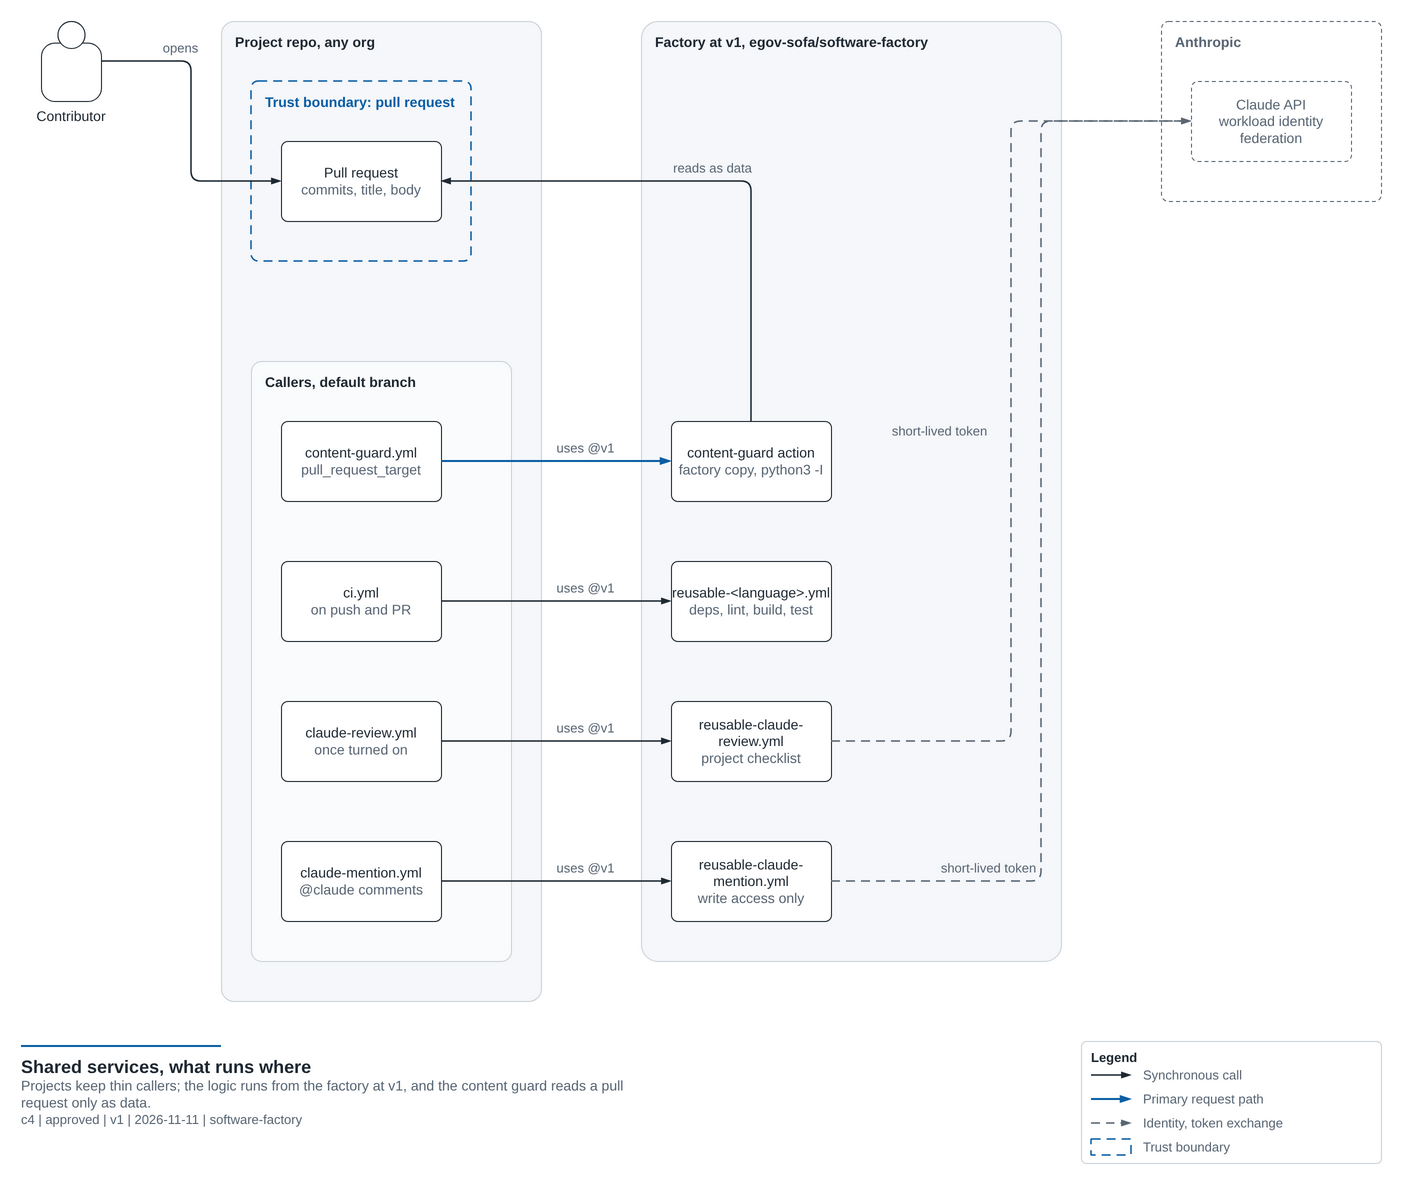
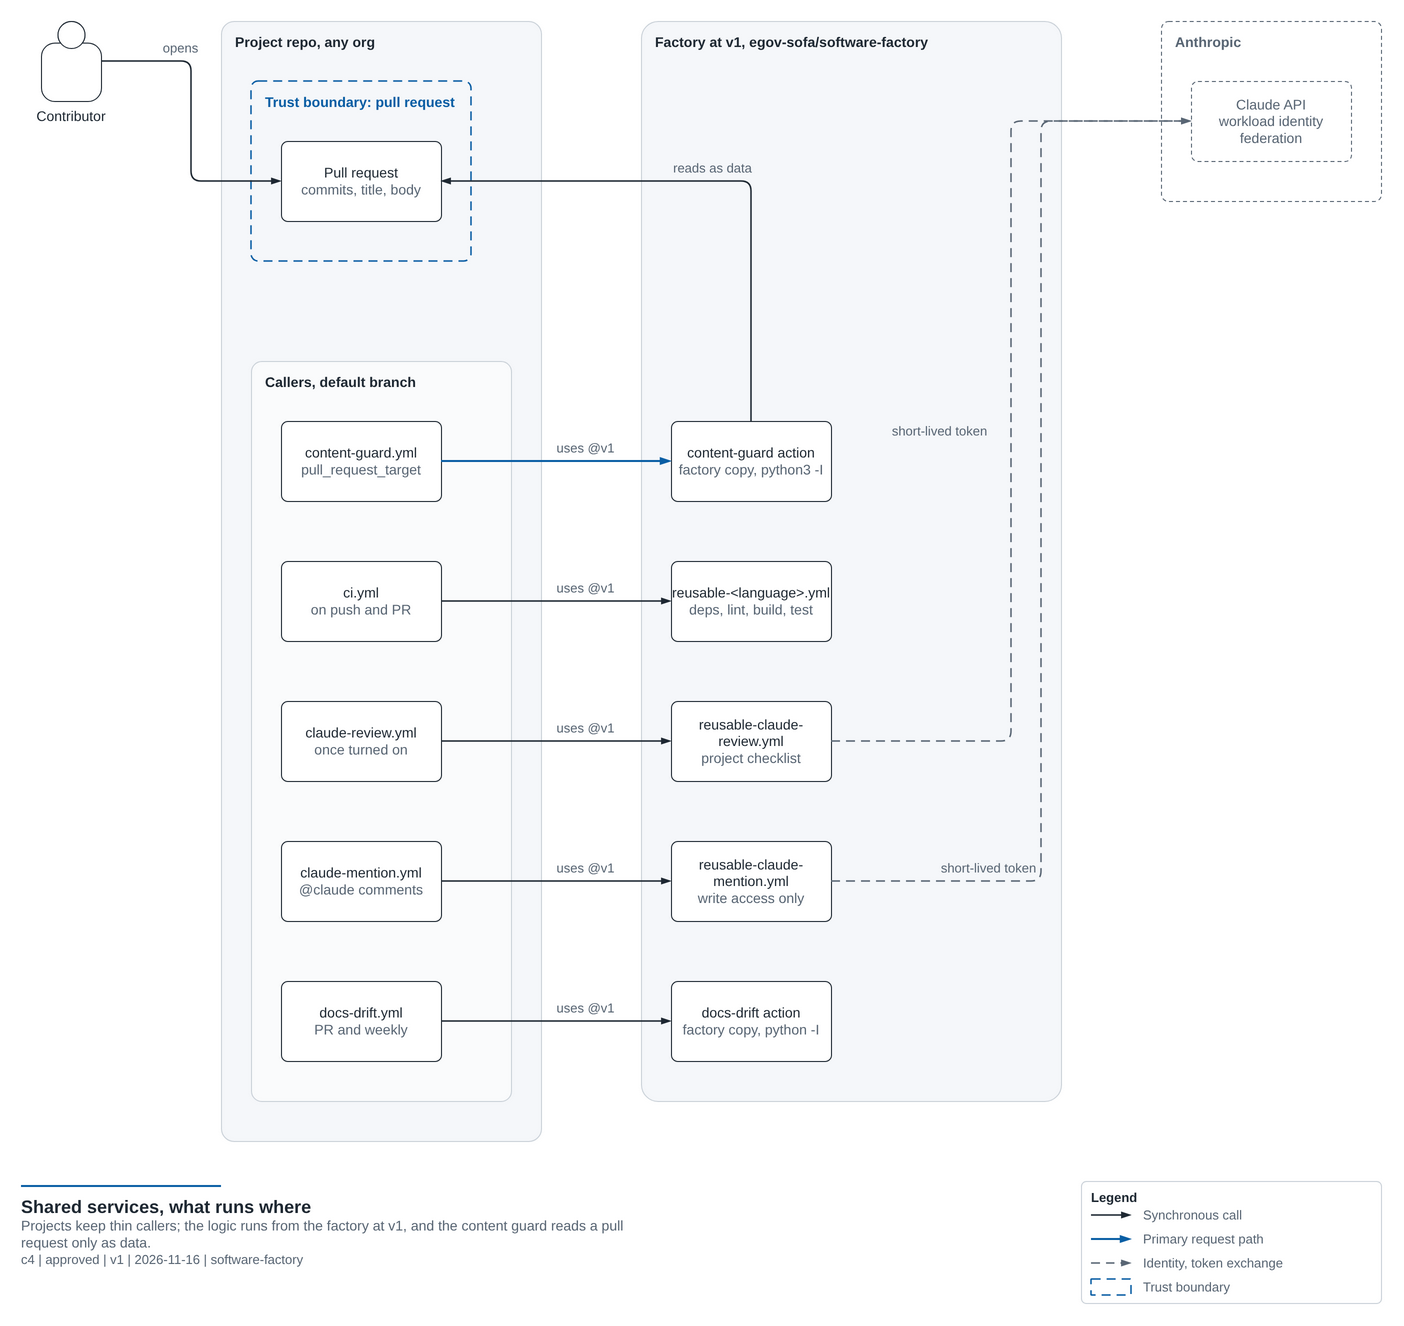
fix: report deleted docs and read errors correctly in docs drift API mode
In API mode a document deleted on the branch showed as ok, because the
commits API returns the deleting commit, and a read error showed as
missing. The scan now asks whether the file exists first, and a read
error is unknown. Manifest text is escaped in the issue body, so a |
cannot break the table and an @name cannot ping anyone. The
shared-services diagram shows the docs-drift caller and action.

Claude-Session: https://claude.ai/code/session_01AJ5dumUuF217ET3TdGrR5a

diff --git a/scripts/docs_drift.py b/scripts/docs_drift.py
@@ -220,6 +220,14 @@ class GitHub:
         when = data[0]["commit"]["committer"]["date"]
         return calendar.timegm(time.strptime(when, "%Y-%m-%dT%H:%M:%SZ")), data[0]["sha"][:7]
 
+    def exists(self, repo, path, ref=None):
+        """True or False, or an error string when GitHub cannot tell (no access, rate limit)."""
+        query = f"?ref={urllib.parse.quote(ref)}" if ref else ""
+        data = self.get(f"{API}/repos/{repo}/contents/{urllib.parse.quote(path)}{query}", repo)
+        if isinstance(data, dict) and "_error" in data:
+            return False if data["_error"] == 404 else f"cannot read {repo} ({data['_error']})"
+        return True
+
     def read_file(self, repo, path, ref=None):
         query = f"?ref={urllib.parse.quote(ref)}" if ref else ""
         data = self.get(f"{API}/repos/{repo}/contents/{urllib.parse.quote(path)}{query}", repo)
@@ -265,8 +273,16 @@ def scan(docs, *, local=None, github=None, repo=None, ref=None, now=None):
         if local:
             doc_change = local.last_change(doc["path"]) if local.exists(doc["path"]) else None
         else:
-            doc_change = github.last_change(repo, doc["path"], ref)
-            doc_change = doc_change if isinstance(doc_change, tuple) else None
+            # the commits API also returns the commit that deleted a file, so ask whether the file is there first;
+            # a read error is "unknown", never "missing"
+            there = github.exists(repo, doc["path"], ref)
+            doc_change = github.last_change(repo, doc["path"], ref) if there is True else None
+            problem = there if isinstance(there, str) else doc_change if isinstance(doc_change, str) else None
+            if problem:
+                result["state"] = "unknown"
+                result["unknown"].append({"source": doc["path"], "reason": problem})
+                results.append(result)
+                continue
         if doc_change is None:
             result["state"] = "missing"
             results.append(result)
@@ -339,6 +355,12 @@ def check_registry(data):
 
 # --- output ---------------------------------------------------------------------------------------------------------
 
+def md(text):
+    """Text from a manifest, safe in a Markdown table cell: | would break the table, and @name would ping someone
+    from the issue every week."""
+    return str(text).replace("|", "\\|").replace("@", "@\u200d")
+
+
 def day(ts):
     return time.strftime("%Y-%m-%d", time.gmtime(ts))
 
@@ -353,15 +375,15 @@ def scan_markdown(results, repo=None):
              "|---|" + ("---|" if by_repo else "") + "---|---|---|---|"]
     for r in worst:
         why = []
-        why += [f"`{n['source']}` changed {day(n['changed'])} ({n['sha']})" for n in r["newer"]]
-        why += [f"`{u['source']}`: {u['reason']}" for u in r["unknown"]]
+        why += [f"`{md(n['source'])}` changed {day(n['changed'])} ({n['sha']})" for n in r["newer"]]
+        why += [f"`{md(u['source'])}`: {md(u['reason'])}" for u in r["unknown"]]
         if r["state"] == "overdue":
             why.append("not reviewed within its review period")
         if r["state"] == "missing":
             why.append("the document does not exist")
         last = f"{day(r['changed'])} ({r['sha']})" if "changed" in r else "-"
-        lines.append(f"| {ICONS[r['state']]} | " + (f"{r['repo']} | " if by_repo else "")
-                     + f"{r['title']} (`{r['path']}`) | {r['state']} | {last} | "
+        lines.append(f"| {ICONS[r['state']]} | " + (f"{md(r['repo'])} | " if by_repo else "")
+                     + f"{md(r['title'])} (`{md(r['path'])}`) | {r['state']} | {last} | "
                      + ("<br>".join(why) or "-") + " |")
     lines += ["", ("A document drifts when a source it describes changed after it. Update the document (or confirm it "
                    "is still right with a commit that touches it), and this list updates on the next run.")]
@@ -373,7 +395,7 @@ def pr_markdown(findings):
         return "Docs drift: every document whose sources this pull request changes is updated too.\n"
     lines = ["Docs drift: this pull request changes what these documents describe, but not the documents.", ""]
     for f in findings:
-        lines.append(f"- **{f['title']}** (`{f['path']}`): " + ", ".join(f"`{x}`" for x in f["files"]))
+        lines.append(f"- **{md(f['title'])}** (`{md(f['path'])}`): " + ", ".join(f"`{md(x)}`" for x in f["files"]))
     lines += ["", "Update each document in this pull request, or say in the description why it is still right."]
     return "\n".join(lines) + "\n"
 

diff --git a/scripts/tests/test_docs_drift.py b/scripts/tests/test_docs_drift.py
@@ -66,6 +66,11 @@ class FakeGitHub:
             return f"cannot read {repo} (404)"
         return self.table.get((repo, path))
 
+    def exists(self, repo, path, ref=None):
+        if repo not in self.readable:
+            return f"cannot read {repo} (403)"
+        return (repo, path) in self.table and (repo, path) not in getattr(self, "deleted", ())
+
 
 DOCS = [{"id": "sad", "title": "System SAD", "path": "docs/sad.md", "review_every_days": 30,
          "sources": [{"path": "docs/sketches/"}, {"path": "src/**/*.py"}]}]
@@ -187,6 +192,29 @@ class ScanRegistry(unittest.TestCase):
         docs = [{"id": "sad", "path": "docs/sad.md", "sources": [{"path": "docs/sketches/"}]}]
         result = docs_drift.scan(docs, github=github, repo="org/app", now=T0 + 3 * DAY)[0]
         self.assertEqual(result["state"], "drift")
+
+
+class ScanRegistryEdges(unittest.TestCase):
+    DOCS = [{"id": "sad", "path": "docs/sad.md", "sources": []}]
+
+    def test_a_document_deleted_on_the_branch_is_missing_not_ok(self):
+        github = FakeGitHub({("org/app", "docs/sad.md"): (T0, "de1")}, readable=["org/app"])
+        github.deleted = {("org/app", "docs/sad.md")}   # the commits API still returns the deleting commit
+        self.assertEqual(docs_drift.scan(self.DOCS, github=github, repo="org/app")[0]["state"], "missing")
+
+    def test_a_read_error_is_unknown_not_missing(self):
+        github = FakeGitHub({}, readable=[])
+        result = docs_drift.scan(self.DOCS, github=github, repo="org/app")[0]
+        self.assertEqual(result["state"], "unknown")
+        self.assertIn("403", result["unknown"][0]["reason"])
+
+
+class Escaping(unittest.TestCase):
+    def test_pipes_and_mentions_from_a_manifest_cannot_break_or_ping(self):
+        rows = [{"id": "x", "title": "A | B @team", "path": "a.md", "state": "missing", "newer": [], "unknown": []}]
+        text = docs_drift.scan_markdown(rows)
+        self.assertIn("A \\| B", text)
+        self.assertNotIn("@team", text)
 
 
 class PullRequest(unittest.TestCase):

diff --git a/docs/SHARED-SERVICES.md b/docs/SHARED-SERVICES.md
@@ -73,7 +73,7 @@ existing project, copy the caller files from [`templates/_shared/`](../templates
 | Local hooks | files copied into the project | Run the same guard before each commit | `scripts/hooks/`, `scripts/check_content.py` |
 | Docs drift | composite action: `.github/actions/docs-drift` | A kind of Dependabot for documentation: reports documents whose sources changed after them, on pull requests and as a weekly issue. Does nothing until the project adds `.factory/docs.yml`. Setup and the private dashboard of all projects: [DOCS-DRIFT.md](DOCS-DRIFT.md) | `.github/workflows/docs-drift.yml` |
 
-![Shared services: four thin callers in the project call the factory at v1; the content guard reads the pull request, an untrusted zone, only as data; the two Claude workflows get a short-lived token for the Claude API](diagrams/shared-services.png)
+![Shared services: five thin callers in the project call the factory at v1, docs drift among them; the content guard reads the pull request, an untrusted zone, only as data; the two Claude workflows get a short-lived token for the Claude API](diagrams/shared-services.png)
 
 ### Why the content guard is an action, not a reusable workflow
 
